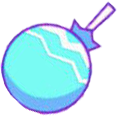
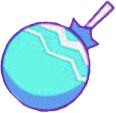
commit

diff --git a/index.html b/index.html
@@ -33,55 +33,18 @@
 
             <div class="haut">
                 <div class="left">
-                    <div class="nom">NADAL</div>
+                    <div class="nom">MARIJA</div>
                     <div class="score score1">0</div>
                 </div>
                 <div class="center">
                     <div class="logo"></div>
                 </div>
                 <div class="right">
-                <div class="nom">FEDERER</div>
+                <div class="nom">RIN</div>
                     <div class="score score2">0</div>
                 </div>
             </div>
 
-            <div class="bas">
-                <div class="persos">
-                    <div class="perso" id="perso1">
-                        <span class="bulle"></span>
-                    </div>
-                    <div class="perso" id="perso2">
-                        <span class="bulle"></span>
-                    </div>
-                    <div class="perso" id="perso3">
-                        <span class="bulle"></span>
-                    </div>
-                    <div class="perso" id="perso4">
-                        <span class="bulle"></span>
-                    </div>
-                    <div class="perso" id="perso5">
-                        <span class="bulle"></span>
-                    </div>
-                    <div class="perso" id="perso6">
-                        <span class="bulle"></span>
-                    </div>
-                    <div class="perso" id="perso7">
-                        <span class="bulle"></span>
-                    </div>
-                    <div class="perso" id="perso8">
-                        <span class="bulle"></span>
-                    </div>
-                    <div class="perso" id="perso9">
-                        <span class="bulle"></span>
-                    </div>
-                    <div class="perso" id="perso10">
-                        <span class="bulle"></span>
-                    </div>
-                    <div class="perso" id="perso11">
-                        <span class="bulle"></span>
-                    </div>
-                </div>
-            </div>
 
             <div class="terrain">
                 <div class="balle">

diff --git a/styles/wimbledon.css b/styles/wimbledon.css
@@ -32,7 +32,7 @@ body{
     height: 100%;
     position: absolute;
     display: flex;
-    background-image: url('./skins/wimbledon/texture-background.jpg');
+    background-image: url('./skins/wimbledon/background.png');
     justify-content: center;
     align-items: center;
 }
@@ -94,8 +94,8 @@ body{
 }
 
 .logo{
-    width: 15vmin;
-    height: 15vmin;
+    width: 40vmin;
+    height: 40vmin;
     background-image: url("./skins/wimbledon/logo.png");
     background-size: contain;
     background-repeat: no-repeat;
@@ -105,12 +105,12 @@ body{
     mix-blend-mode: hard-light;
     font-size: 5vmin;
     font-weight: 700;
-    color: #fb8d39;
+    color: #e7eb26;
     line-height: 1.1;
 }
 .score{
     font-size: 8vmin;
-    font-weight: 800;
+    font-weight: 700;
 }
 
 
@@ -128,6 +128,7 @@ body{
 .raquette.joueur1{
     left: -6%;
     background-image: url("./skins/wimbledon/joueur1.png");
+    
 }
 .raquette.joueur2{
     right: -6%;
@@ -143,7 +144,8 @@ body{
 
 .raquette.touche-balle{
     transform: scale(1.1);
-    filter: saturate(1.5) invert(1);
+    filter: saturate(1.5) invert(0.2);
+    transform : translateX(20px);
 }
 
 /** effet de couleur qui peut être utilisé à plusieurs endroits **/

diff --git a/styles/balle.css b/styles/balle.css
@@ -1,5 +1,5 @@
 .balle{
-    background-color: #fff;
+    background-color: rgba(255, 255, 255, 0);
     --diamettre:40px;
     width: var(--diamettre);
     height: var(--diamettre);
@@ -13,8 +13,8 @@
     background-image: url('./skins/wimbledon/balle.png');
     background-size: cover;
     position: absolute;
-    width: 100%;
-    height: 100%;
+    width: 150%;
+    height: 150%;
     top: 0;
     left: 0;
     animation-name: balle-tourne;

diff --git a/styles/bulle.css b/styles/bulle.css
@@ -1,4 +1,4 @@
-/** genre une bulle de BD **/
+/** genre une bulle de BD 
 .bulle{
     transition: all 0.1s;
     position: absolute;
@@ -34,7 +34,7 @@
     }
 }
 
-/** un triangle css **/
+/** un triangle css 
 .bulle::after{
     position: absolute;
     top: 100%;
@@ -51,4 +51,4 @@
     opacity: 0;
     filter: blur(8px);
     margin-bottom: -10px;
-}
+}**/

diff --git a/styles/persos.css b/styles/persos.css
@@ -1,4 +1,4 @@
-.perso{
+/*.perso{
     position: relative;
     --taille:10vmin;
     width: var(--taille);
@@ -90,4 +90,4 @@
 }
 .perso:nth-child(4+4n){
     animation-duration: 11s;
-}
+}*/
